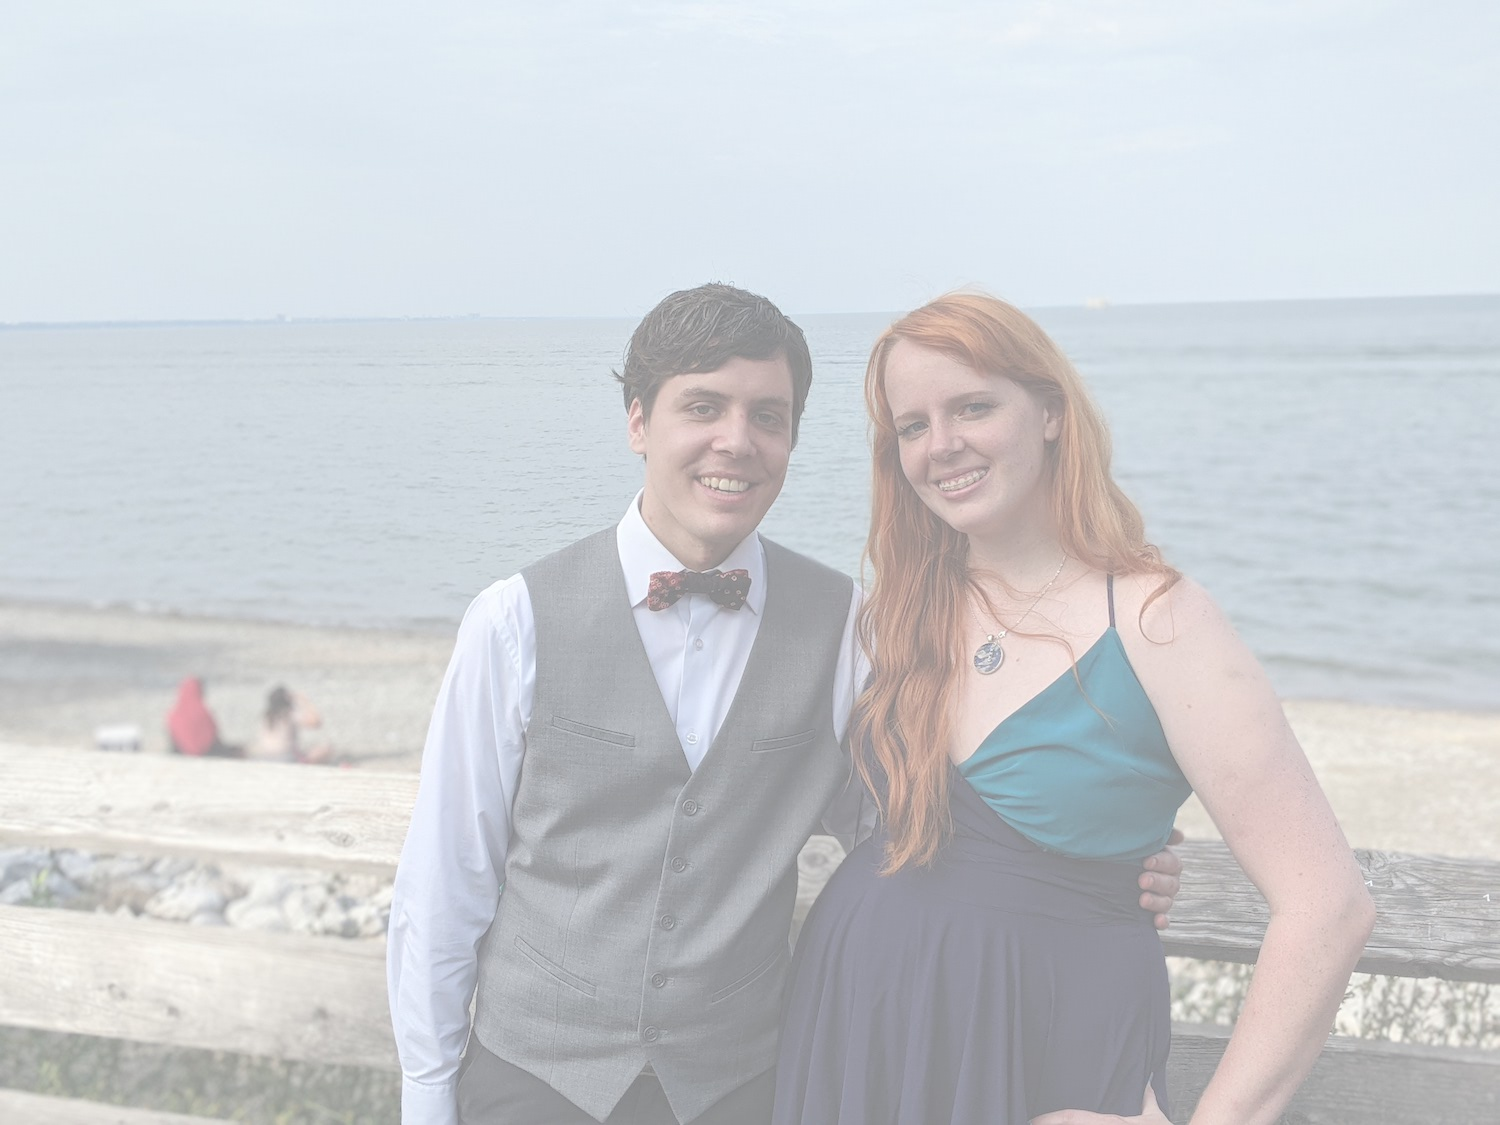
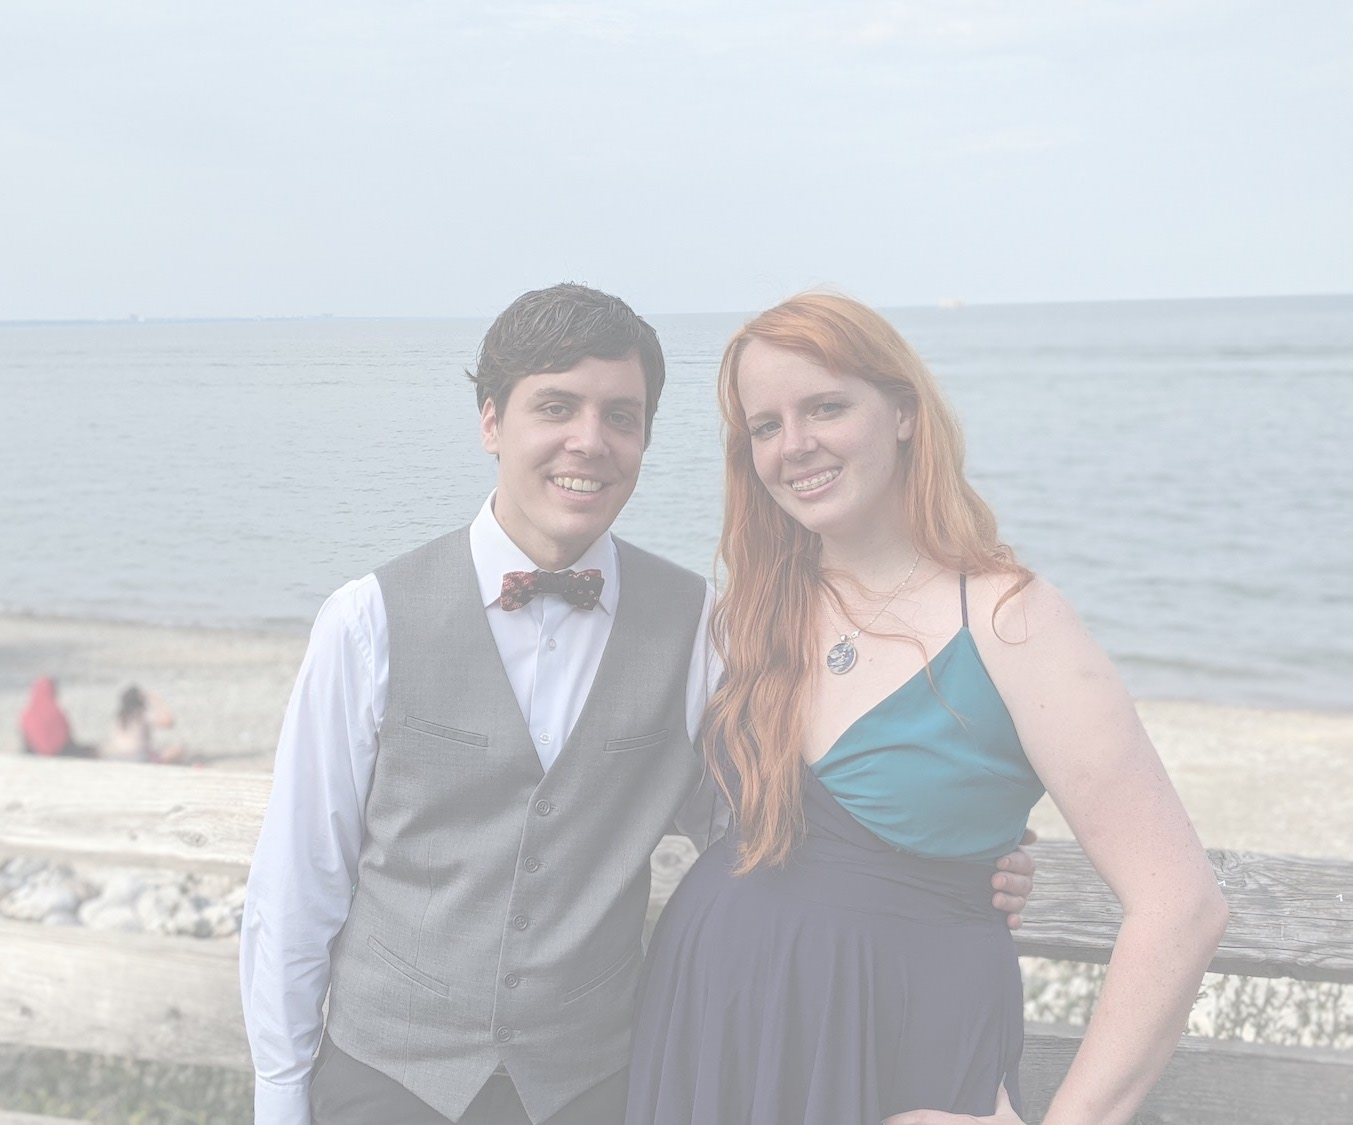
fix: center cover photos

diff --git a/sass/style.scss b/sass/style.scss
@@ -389,7 +389,7 @@ figure {
 .fh5co-cover {
   height: 900px;
   background-size: cover;
-  // background-position: center center;
+  background-position: top;
   background-repeat: no-repeat;
   position: relative;
   width: 100%;

diff --git a/public/css/style.css b/public/css/style.css
@@ -307,6 +307,7 @@ figure {
 .fh5co-cover {
   height: 900px;
   background-size: cover;
+  background-position: top;
   background-repeat: no-repeat;
   position: relative;
   width: 100%;
